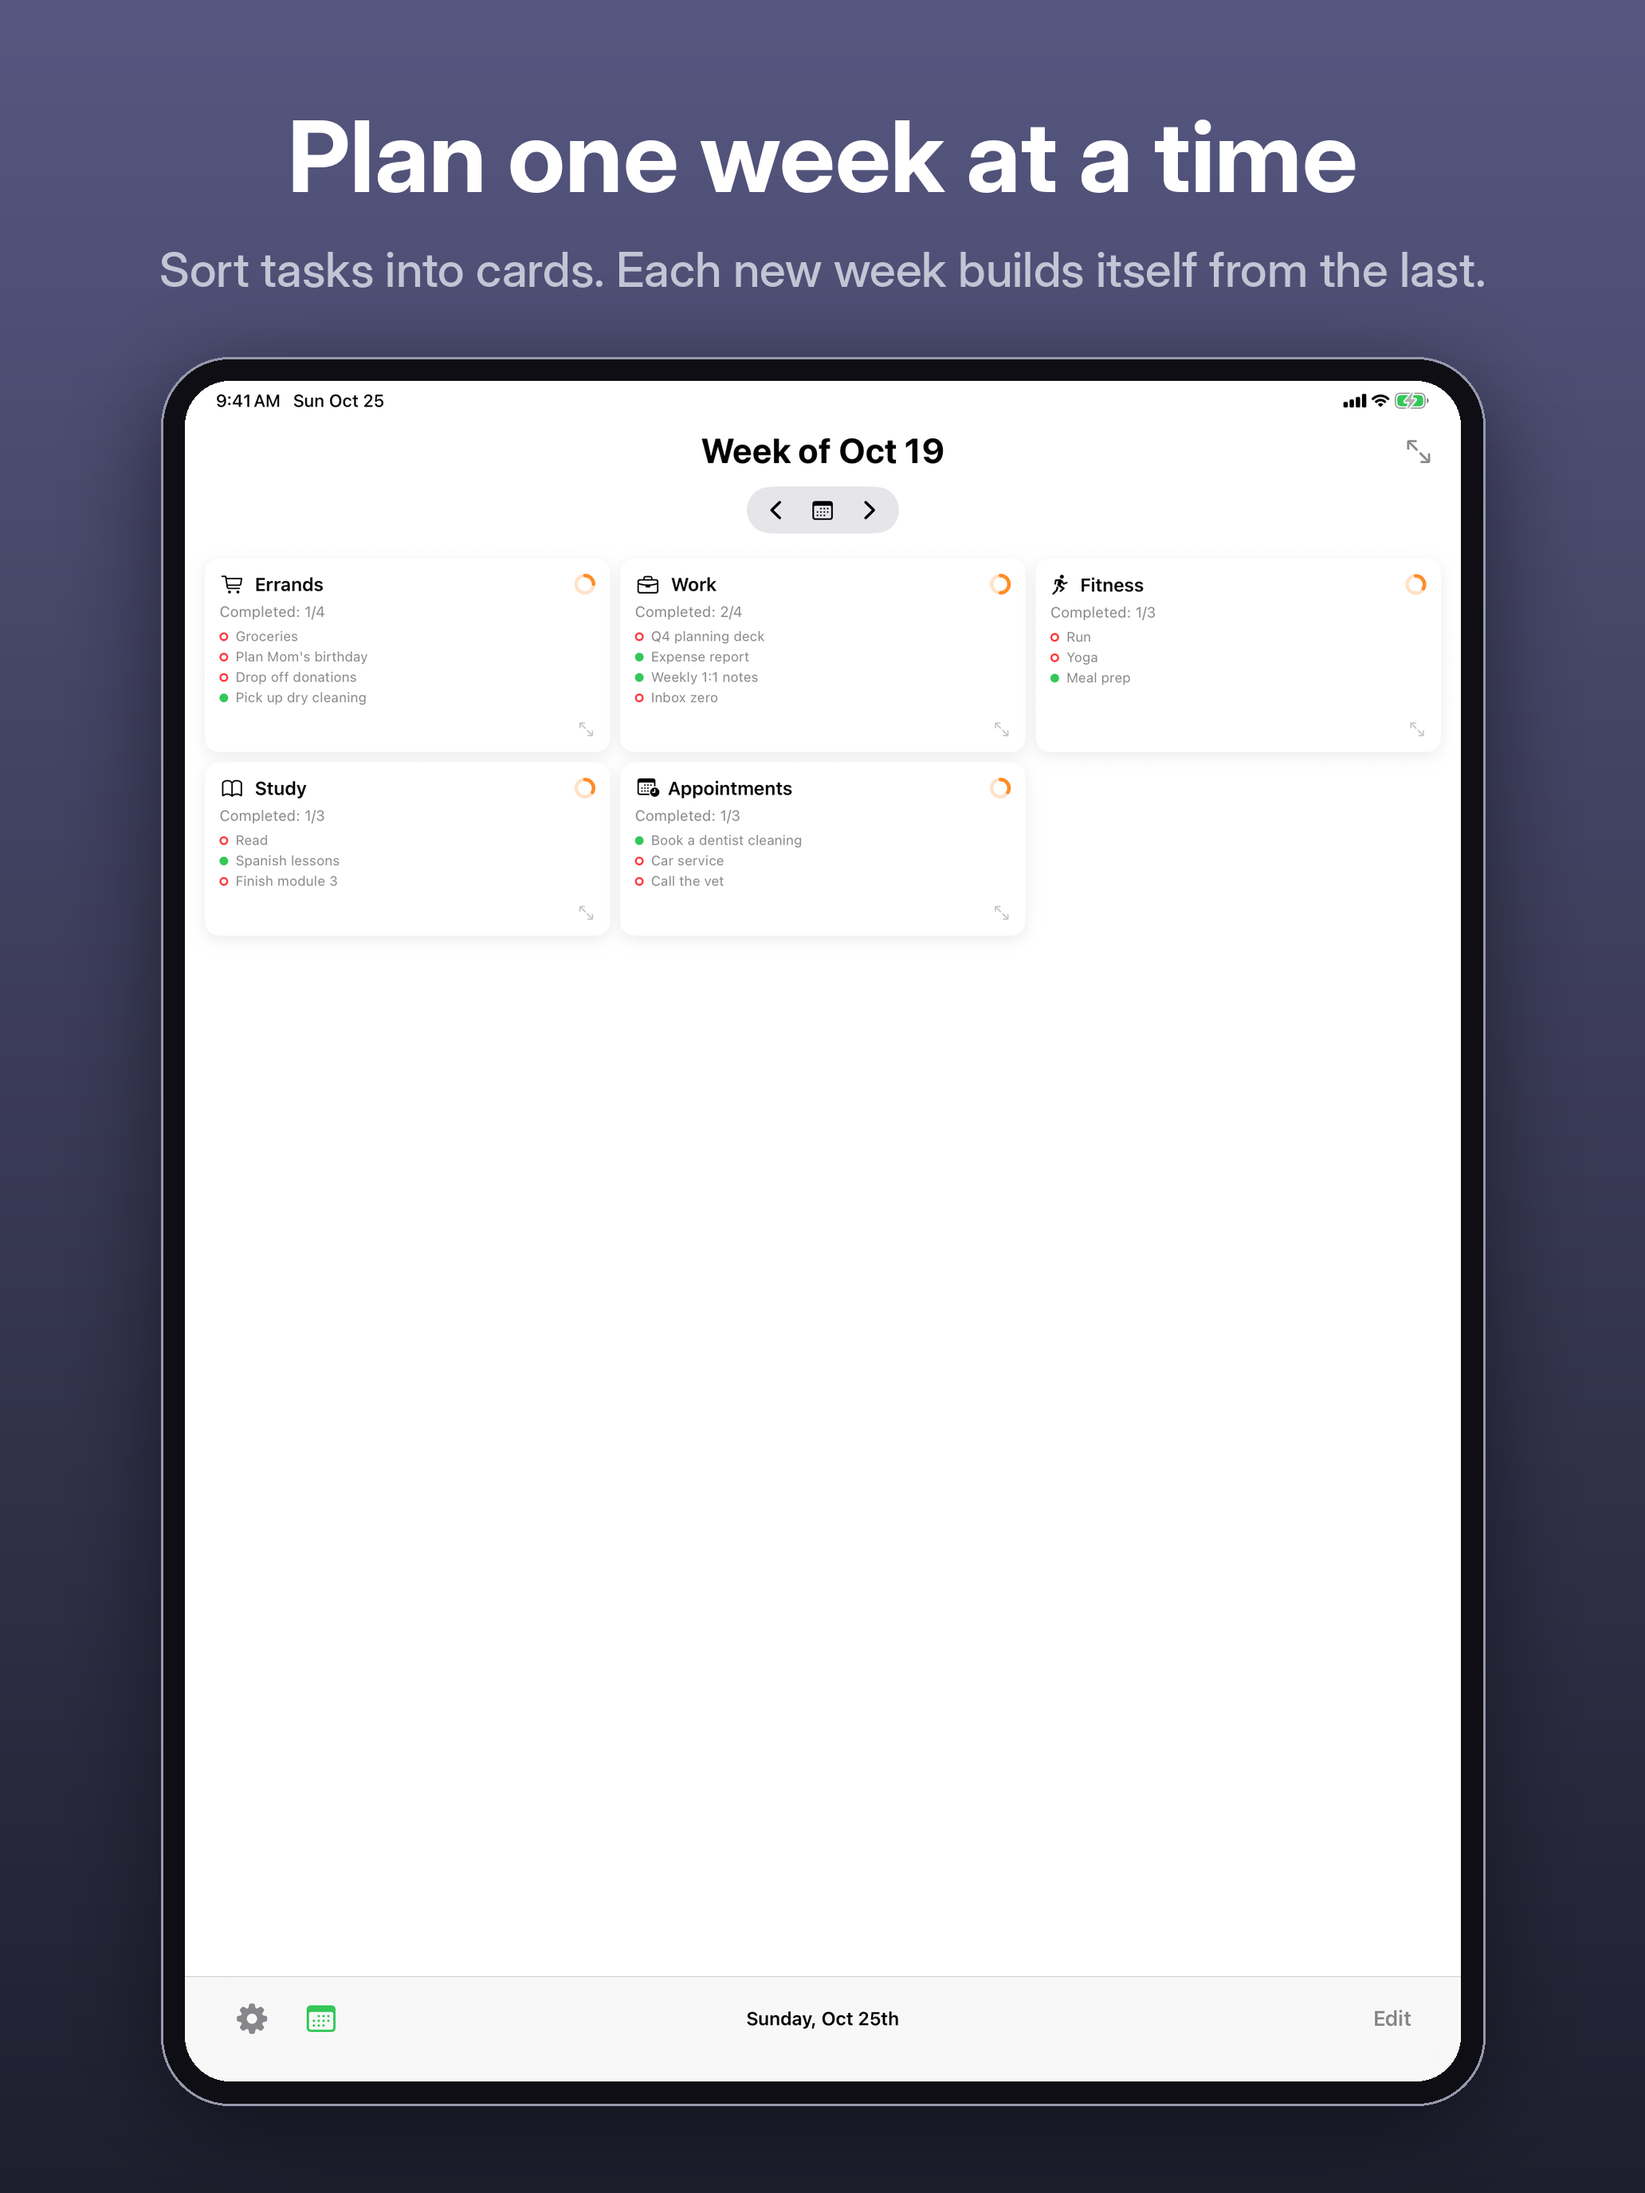
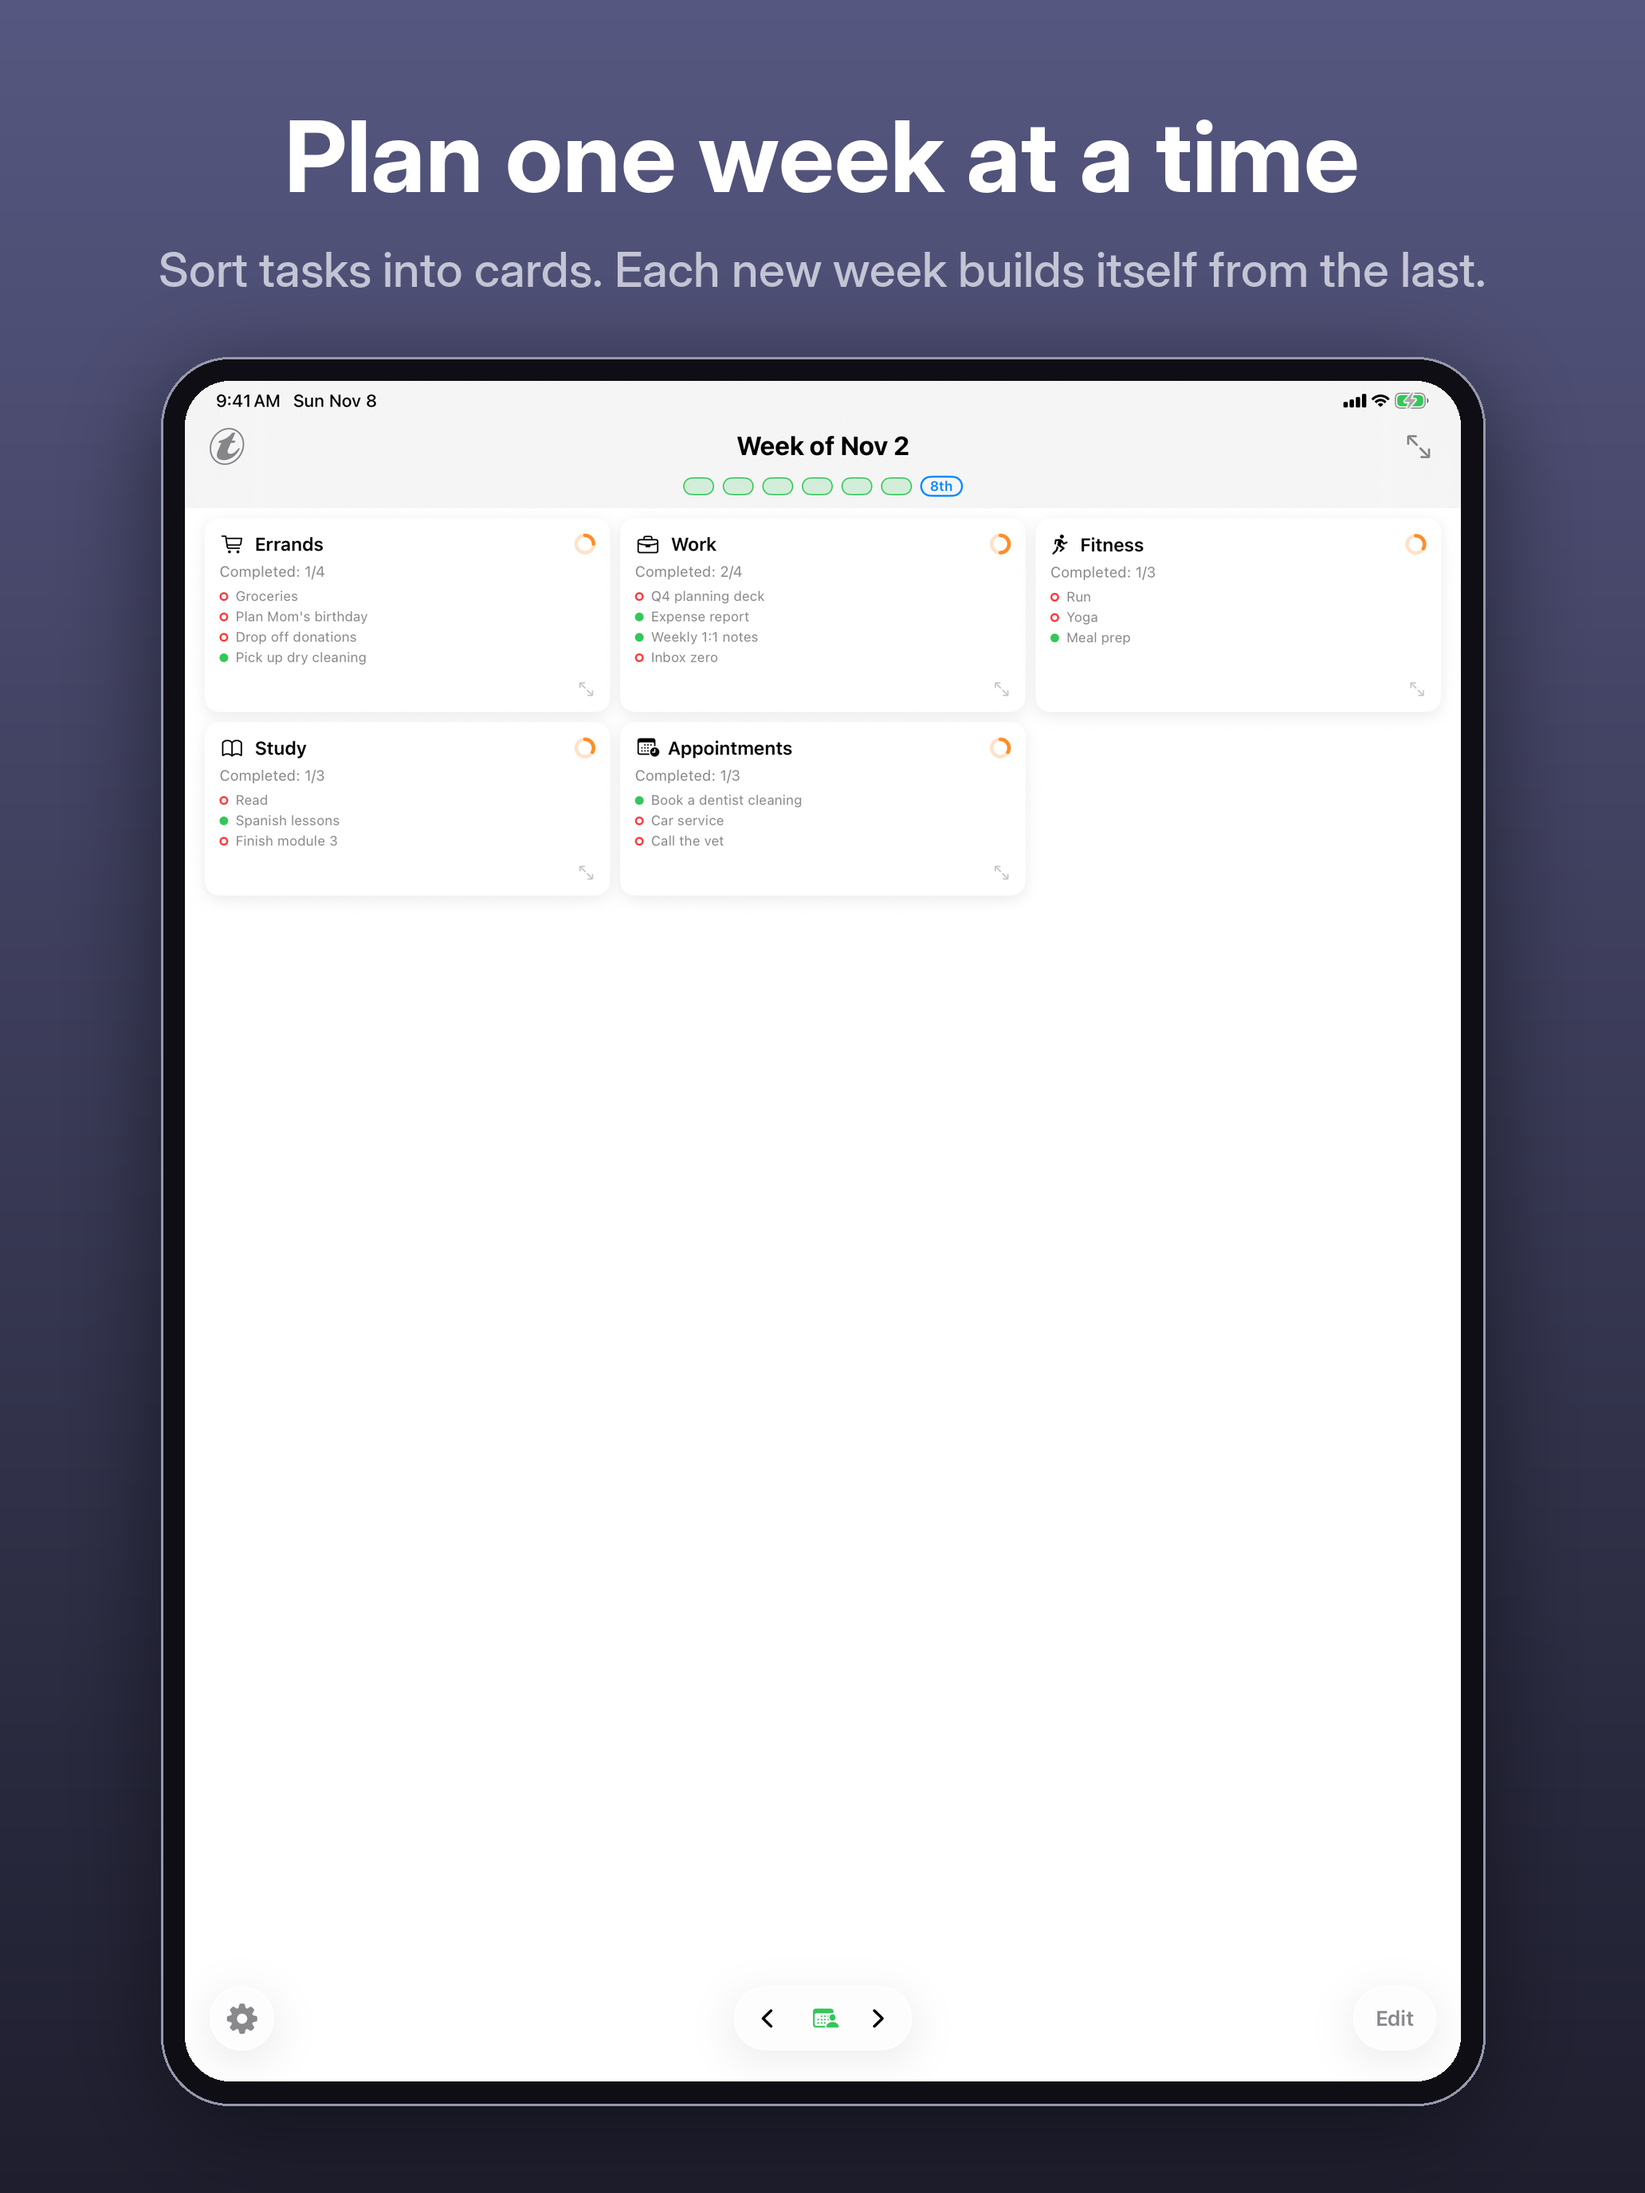
App Store screenshots for 1.0.2
The new header, day strip, glass bottom bar, goal rows and calendar
sheet; Smart Add added as shot 2.

diff --git a/screenshots/appstore/make_appstore_images.py b/screenshots/appstore/make_appstore_images.py
@@ -1,12 +1,14 @@
 """Lays out Tasquel's raw simulator screenshots as App Store images:
 a headline and subhead above the screenshot, in a device bezel, on the icon's navy."""
+import os
 import sys
 from pathlib import Path
 from PIL import Image, ImageDraw, ImageFilter, ImageFont
 
 SRC = Path(sys.argv[1])
 OUT = Path(sys.argv[2])
-FONT_DIR = "/usr/share/fonts/opentype/inter/"
+# Inter Display (rsms.me/inter: extras/otf in the release zip); INTER_DIR points elsewhere.
+FONT_DIR = os.path.join(os.environ.get("INTER_DIR", "/usr/share/fonts/opentype/inter/"), "")
 BOLD = FONT_DIR + "InterDisplay-Bold.otf"
 MEDIUM = FONT_DIR + "InterDisplay-Medium.otf"
 
@@ -21,11 +23,12 @@ BEZEL_EDGE = (150, 152, 172)
 # "\n" marks the iPhone line breaks; iPad, being wider, joins them into one line.
 SHOTS = [
     ("01-week", "Plan one week\nat a time", "Sort tasks into cards. Each new\nweek builds itself from the last."),
-    ("02-card-open", "Lists, sub-tasks\nand goals", "Tick off items, steps and progress,\nall in one card."),
-    ("03-type-and-mode", "Unfinished?\nIt carries over.", "Choose what happens to each\ntask when the week ends."),
-    ("04-calendar-events", "Your calendar,\nalongside", "See the week's events right\nnext to your tasks."),
-    ("05-retro", "Go retro", "A terminal theme in six phosphor\ncolors, with a matching icon."),
-    ("06-dark", "Easy on the eyes", "Light, Dark, or\nfollow your device."),
+    ("02-smart-add", "Write it like\nyou’d say it", "Smart Add, with Apple Intelligence,\nsets the goal and schedule."),
+    ("03-card-open", "Lists, sub-tasks\nand goals", "Tick off items, steps and progress,\nall in one card."),
+    ("04-type-and-mode", "Unfinished?\nIt carries over.", "Choose what happens to each\ntask when the week ends."),
+    ("05-calendar-events", "Your calendar,\nalongside", "See the week’s events right\nnext to your tasks."),
+    ("06-retro", "Go retro", "A terminal theme in six phosphor\ncolors, with a matching icon."),
+    ("07-dark", "Easy on the eyes", "Light, Dark, or\nfollow your device."),
 ]
 
 DEVICES = {
